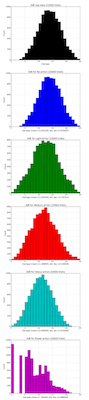
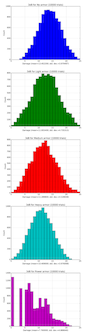
Removed unused images.  Better simulator image.  Short URL.

diff --git a/talk.rst b/talk.rst
@@ -15,18 +15,19 @@ Fallout Pen-and-Paper
 Adam Thornton
 =============
 
-Speaking As A Private Individual
-================================
+Not Speaking For An Employer
+============================
 
 athornton@gmail.com
+
+|
+
+https://goo.gl/UzCqlD
 
 ----
 
 .. role:: raw-role(raw)
     :format: html
-
-.. role:: strike
-    :class: strike
 
 Background
 ##########
@@ -133,16 +134,16 @@ Spiritual successor of *Wasteland* (EA, 1988)
 3D Fallout games: *Fallout 3* (2008), *Fallout: New Vegas* (2010),
 *Fallout 4* (2015). 
 
-|
-
-|
+The major differences are that they are 3D rather than tile-based, and,
+more importantly, that I know them a lot better than the first two.
 
 
 |fallout_nv|
 
 |fallout4|
 
-Post-apocalyptic retro-future: robots, tailfins, the Ink Spots.
+They're all a post-apocalyptic retro-future with robots, tailfins, and
+an Ink Spots soundtrack.
 
 .. |fallout3| image:: images/fallout3.jpg
 
@@ -376,27 +377,19 @@ Fighting a few Mole Rats took forever and was kind of boring. |mole_rat|
 Implementing a Battle Simulator
 ###############################
 
-So, I need an Actor class.  It has hit points and armor. |simulator|
+So, I need an Actor class.  It has hit points and armor... 
 
-And it's got SPECIAL stats and skills...
+And SPECIAL stats...and skills...and weapons...which may have
+ammo and ranges...and splash damage...and I need a class to roll dice
+and calculate damage...which comes in (at least) physical, burn, poison, and
+radiation variants...and the actor is at particular coordinates in a
+space, which we will call an arena... 
 
-And it has weapons....
-
-Weapons may have ammo and ranges...
-
-And splash damage...
-
-And I need a class to roll dice and calculate damage...
-
-Oh dear.  Damage comes in (at least) physical, burn, poison, and
-radiation variants...
-
-The actor is at particular coordinates in a space, which we will call an
-arena...
-
-And it needs a strategy for what it's going to *do* each turn...
+|simulator|
 
 .. |simulator| image:: images/simulator.png
+
+.. |actor| image:: images/actor.png
 
 ----
 
@@ -408,7 +401,9 @@ roguelike. |rl|
 
 Just to get two raiders fighting each other needed all of the above,
 plus motion rules, plus morale, plus a turn sequencer, plus choosing
-weapons, plus a faction system...
+weapons, plus some kind of strategy algorithm.
+
+Three raiders?  Now I need a faction system...
 
 .. |rl| image:: images/nethack.png
 
